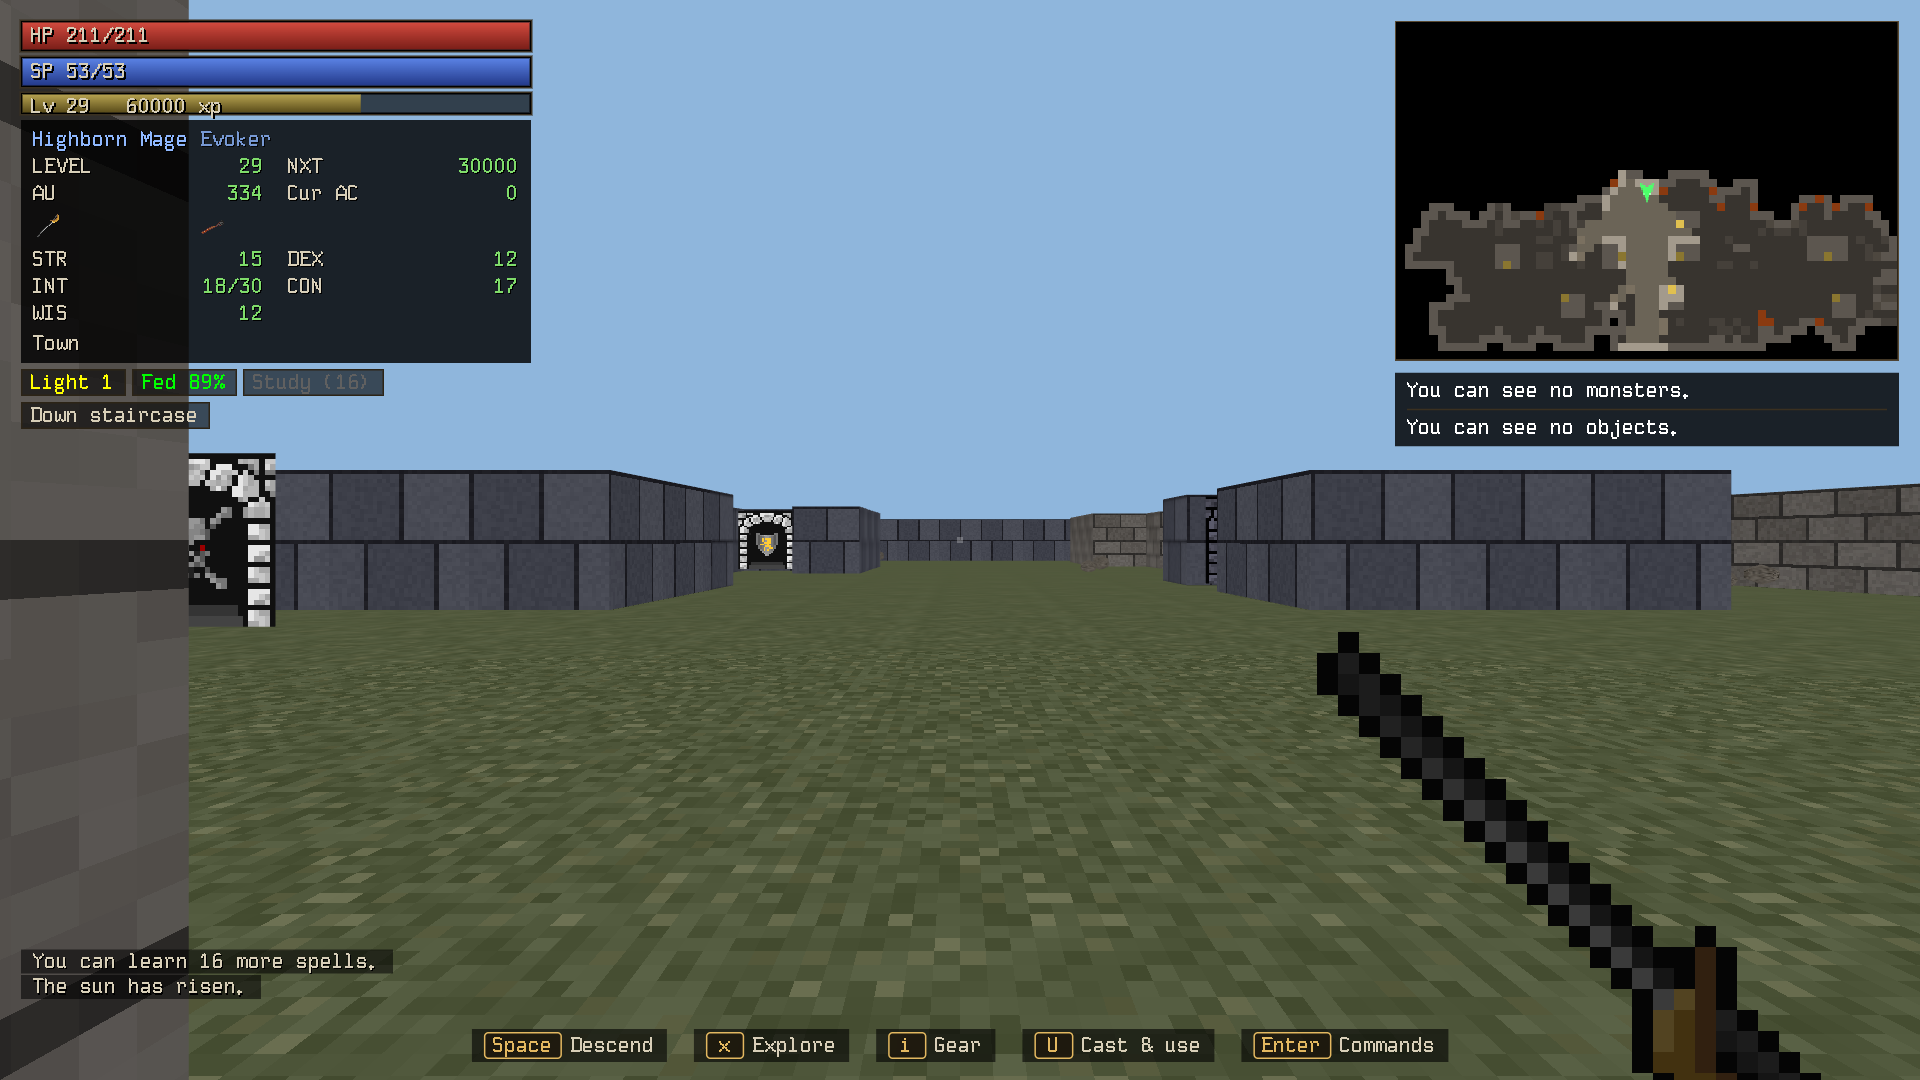
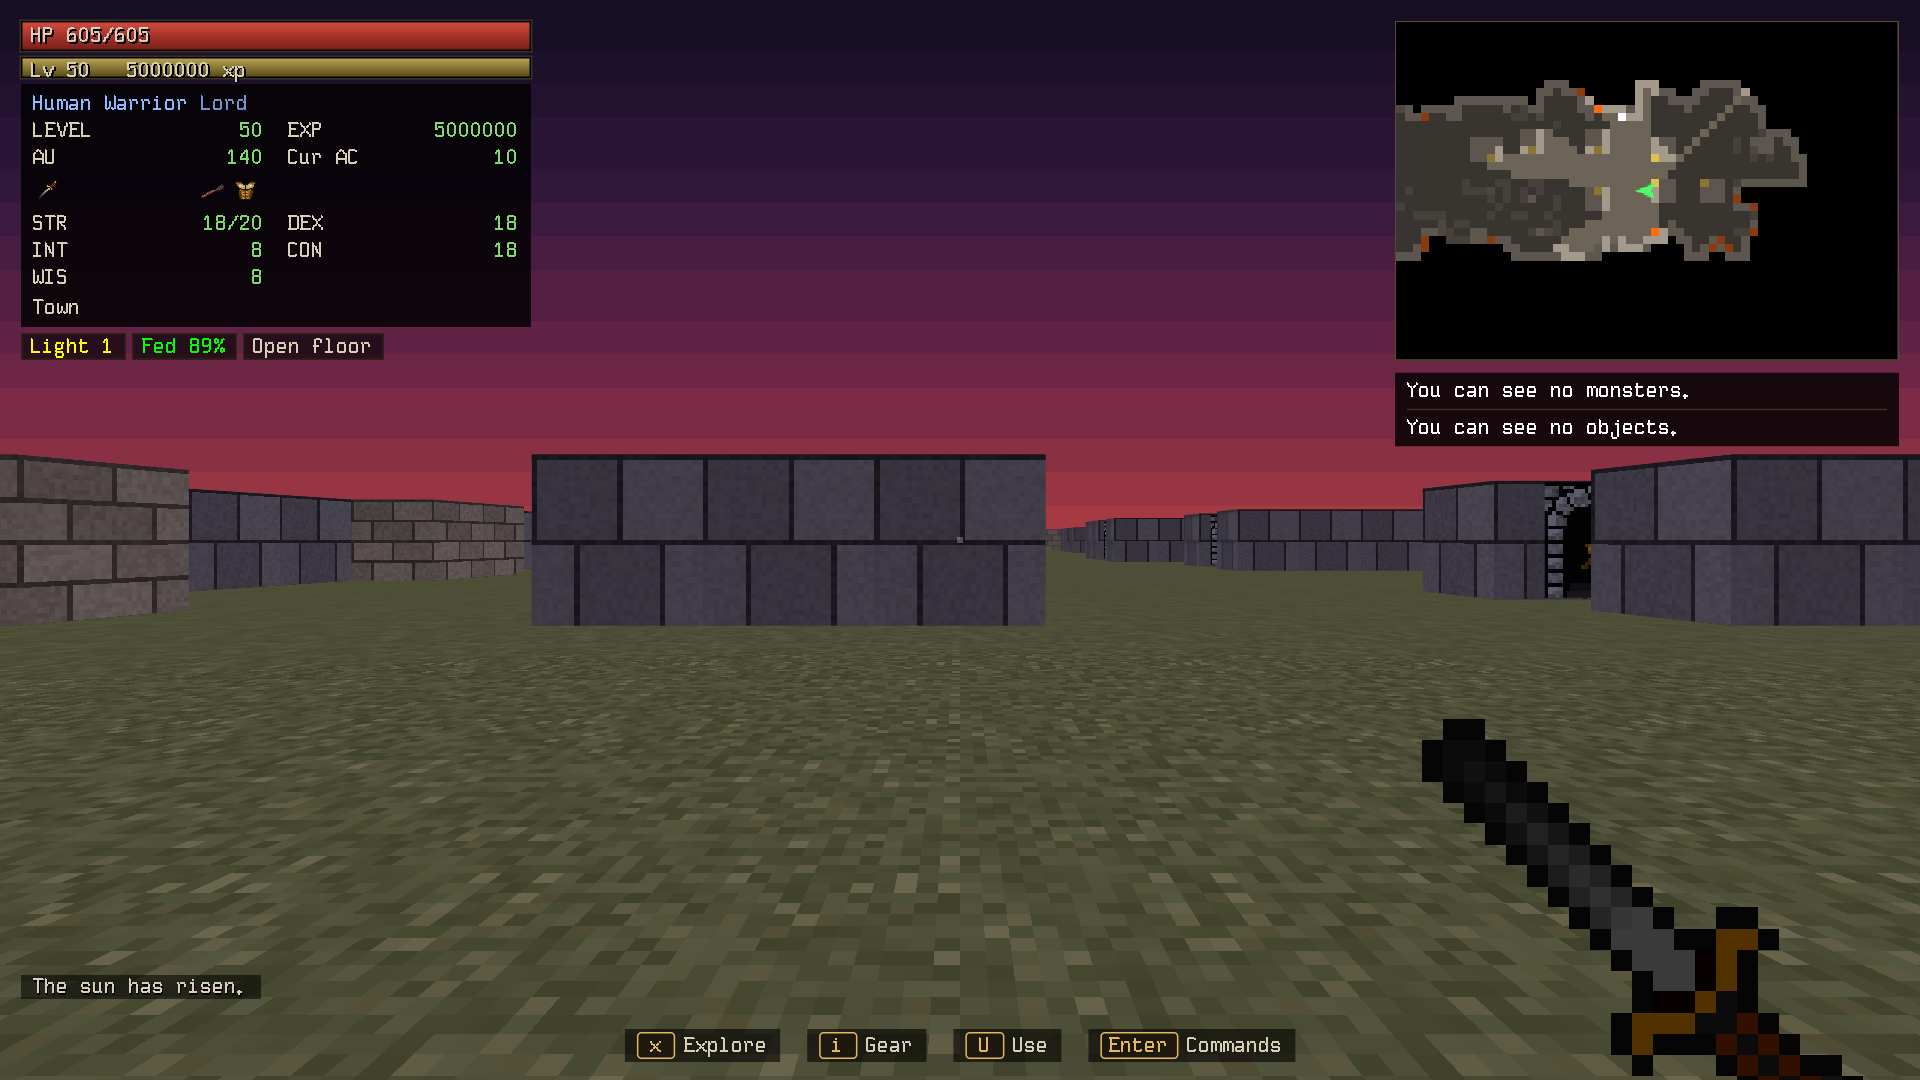
Twilight town sky; title-only cover options; summon fetches quest uniques
The town sky is now a stepped gradient, dark violet overhead to a
blood-red horizon by day (an ember glow by night), with the daylight
tinted to match. Town shots retaken under it.

Four title-only cover options in store-assets/cover-options: a longsword
against an ancient red dragon, Fafnir, Azazel and Abaddon.

The cheat-only debug summon now brings over a unique that is already on
the level (quest bosses), since Angband won't place a second one.

diff --git a/client/src/renderer/scene.ts b/client/src/renderer/scene.ts
@@ -22,6 +22,44 @@ export interface RenderSettings {
   fov: number;
 }
 
+/**
+ * The town sky: a stepped twilight gradient, dark violet overhead to a
+ * blood-red horizon (by day) or a faint ember glow (by night).  The camera
+ * never pitches, so a screen-space gradient with the horizon at mid-height
+ * is enough.
+ */
+const SKY: Record<'day' | 'night', [number, number, number][]> = {
+  day: [[22, 14, 36], [52, 24, 62], [104, 36, 70], [166, 58, 66]],
+  night: [[5, 4, 10], [12, 8, 22], [26, 12, 34], [52, 18, 38]],
+};
+const skyCache = new Map<string, THREE.Texture>();
+
+function skyTexture(kind: 'day' | 'night'): THREE.Texture {
+  let t = skyCache.get(kind);
+  if (t) return t;
+  const c = document.createElement('canvas');
+  c.width = 1;
+  c.height = 64;
+  const g = c.getContext('2d')!;
+  const stops = SKY[kind];
+  const BANDS = 14;
+  for (let y = 0; y < 64; y++) {
+    // Top of the screen to the horizon (mid-height), in whole bands
+    const f = Math.min(1, Math.floor((y / 32) * BANDS) / (BANDS - 1));
+    const i = Math.min(stops.length - 2, Math.floor(f * (stops.length - 1)));
+    const k = f * (stops.length - 1) - i;
+    const [a, b] = [stops[i], stops[i + 1]];
+    g.fillStyle = `rgb(${a.map((v, j) => Math.round(v + (b[j] - v) * k)).join(',')})`;
+    g.fillRect(0, y, 1, 1);
+  }
+  t = new THREE.CanvasTexture(c);
+  t.colorSpace = THREE.SRGBColorSpace;
+  t.magFilter = THREE.NearestFilter;
+  t.minFilter = THREE.NearestFilter;
+  skyCache.set(kind, t);
+  return t;
+}
+
 export class SceneRenderer {
   readonly renderer: THREE.WebGLRenderer;
   readonly scene = new THREE.Scene();
@@ -76,7 +114,7 @@ export class SceneRenderer {
     this.outdoors = outdoors;
     this.daytime = outdoors && daytime;
     this.dungeon.light.setMode(!outdoors ? 'dungeon' : daytime ? 'day' : 'night');
-    this.scene.background = new THREE.Color(!outdoors ? 0x000000 : daytime ? 0x8fb6dc : 0x1c2230);
+    this.scene.background = !outdoors ? new THREE.Color(0x000000) : skyTexture(daytime ? 'day' : 'night');
   }
 
   /** Animation speed (1 = normal); slowed for debugging and screenshot capture */

diff --git a/client/src/renderer/grid-light.ts b/client/src/renderer/grid-light.ts
@@ -138,11 +138,12 @@ export class GridLight {
           vec3 light;
           float fade;
           if (lightMode == 2) {
-            light = vec3(1.0);
+            // Town by day under a red twilight sky
+            light = vec3(0.92, 0.78, 0.84);
             fade = 1.0;
           } else {
-            float ambient = lightMode == 1 ? 0.3 : 0.06;
-            light = vec3(ambient) + torch * torchColor + room * vec3(0.6, 0.48, 0.34);
+            vec3 ambient = lightMode == 1 ? vec3(0.3, 0.24, 0.34) : vec3(0.06);
+            light = ambient + torch * torchColor + room * vec3(0.6, 0.48, 0.34);
             // Darkness in steps of whole squares
             fade = exp(-pow(dist * (lightMode == 1 ? 0.045 : 0.075), 2.0));
             fade = ceil(fade * 6.0) / 6.0;

diff --git a/engine/adapter/src/main-headless.c b/engine/adapter/src/main-headless.c
@@ -433,6 +433,29 @@ static void handle_debug(const jv *req)
 			proto_send_error("bad_value", "No such monster");
 			return;
 		}
+		if (rf_has(race->flags, RF_UNIQUE) && race->cur_num >= race->max_num) {
+			/* A unique already on the level (a quest boss): bring it over */
+			int i;
+			struct loc grid;
+			for (i = 1; i < cave_monster_max(cave); i++) {
+				struct monster *mon = cave_monster(cave, i);
+				if (!mon || mon->race != race) continue;
+				if (scatter_ext(cave, &grid, 1, player->grid, 1, true,
+						square_isempty))
+					monster_swap(mon->grid, grid);
+				break;
+			}
+			if (i >= cave_monster_max(cave)) {
+				proto_send_error("bad_value", "That unique cannot appear");
+				return;
+			}
+			player->noscore |= NOSCORE_DEBUG;
+			player->upkeep->update |= (PU_UPDATE_VIEW | PU_MONSTERS);
+			player->upkeep->redraw |= PR_MAP;
+			handle_stuff(player);
+			snapshot_send(false);
+			return;
+		}
 		cmdq_push(CMD_WIZ_SUMMON_NAMED);
 		cmd_set_arg_number(cmdq_peek(), "index", race->ridx);
 	} else if (streq(action, "map")) {
